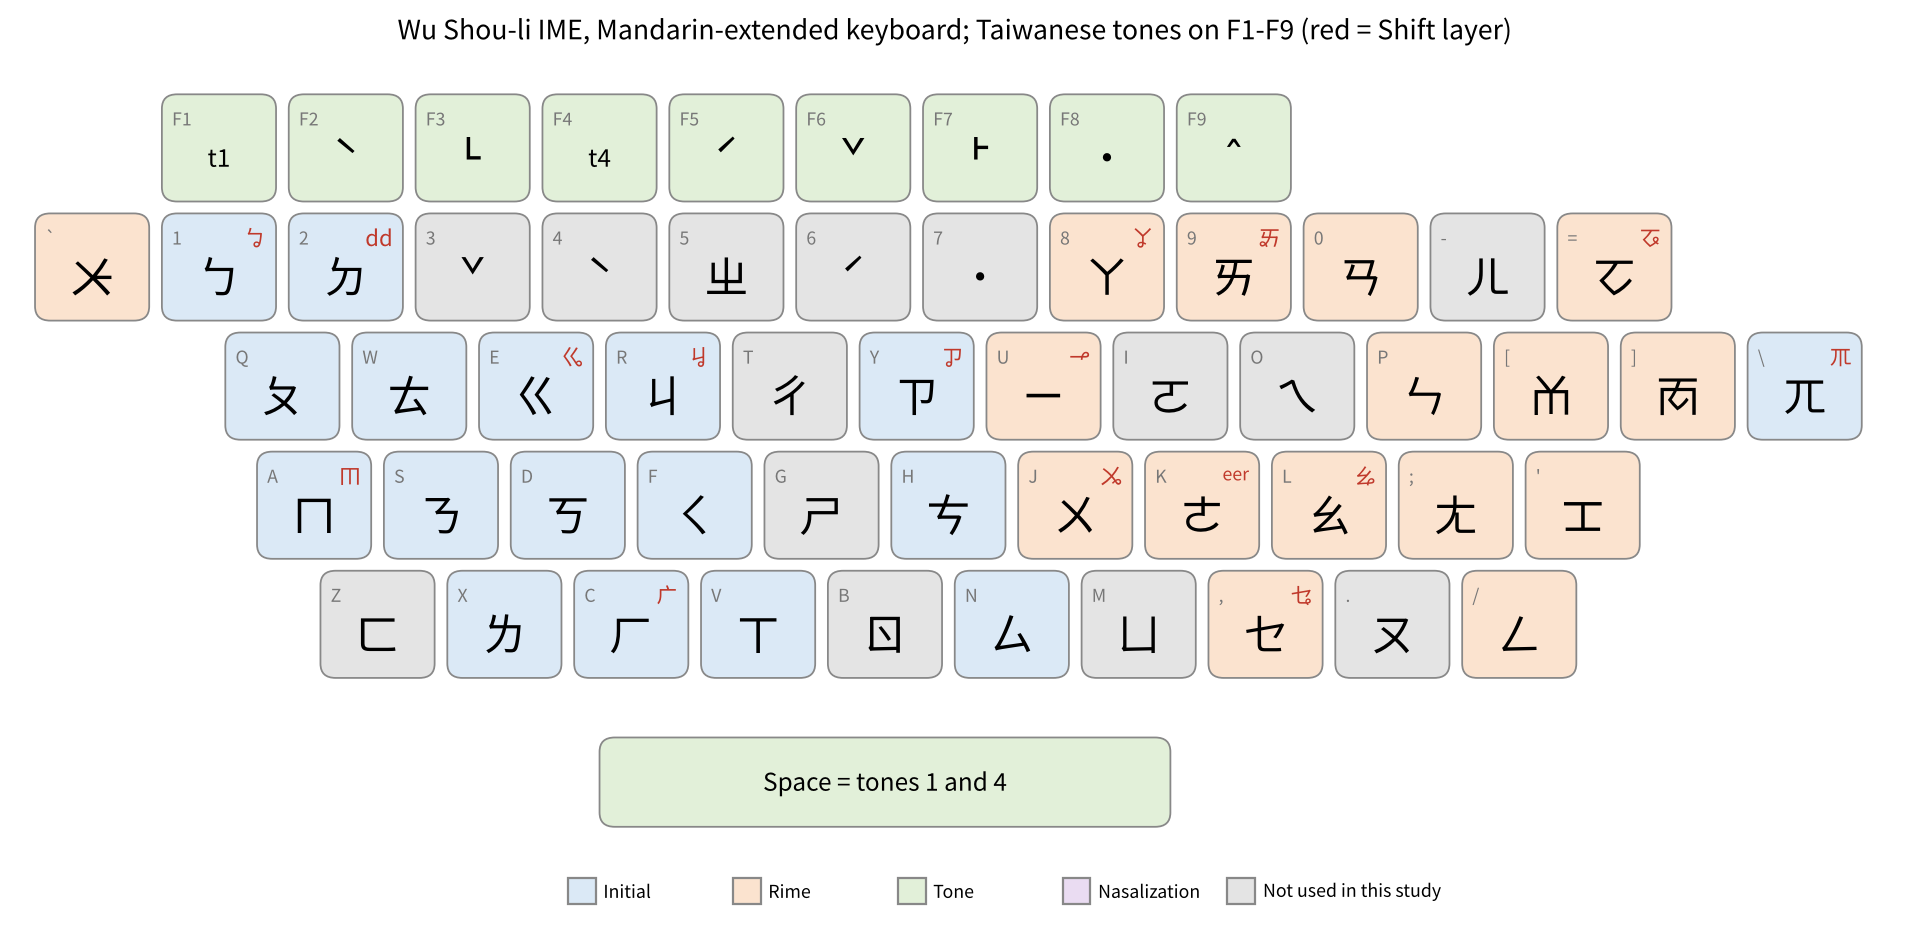
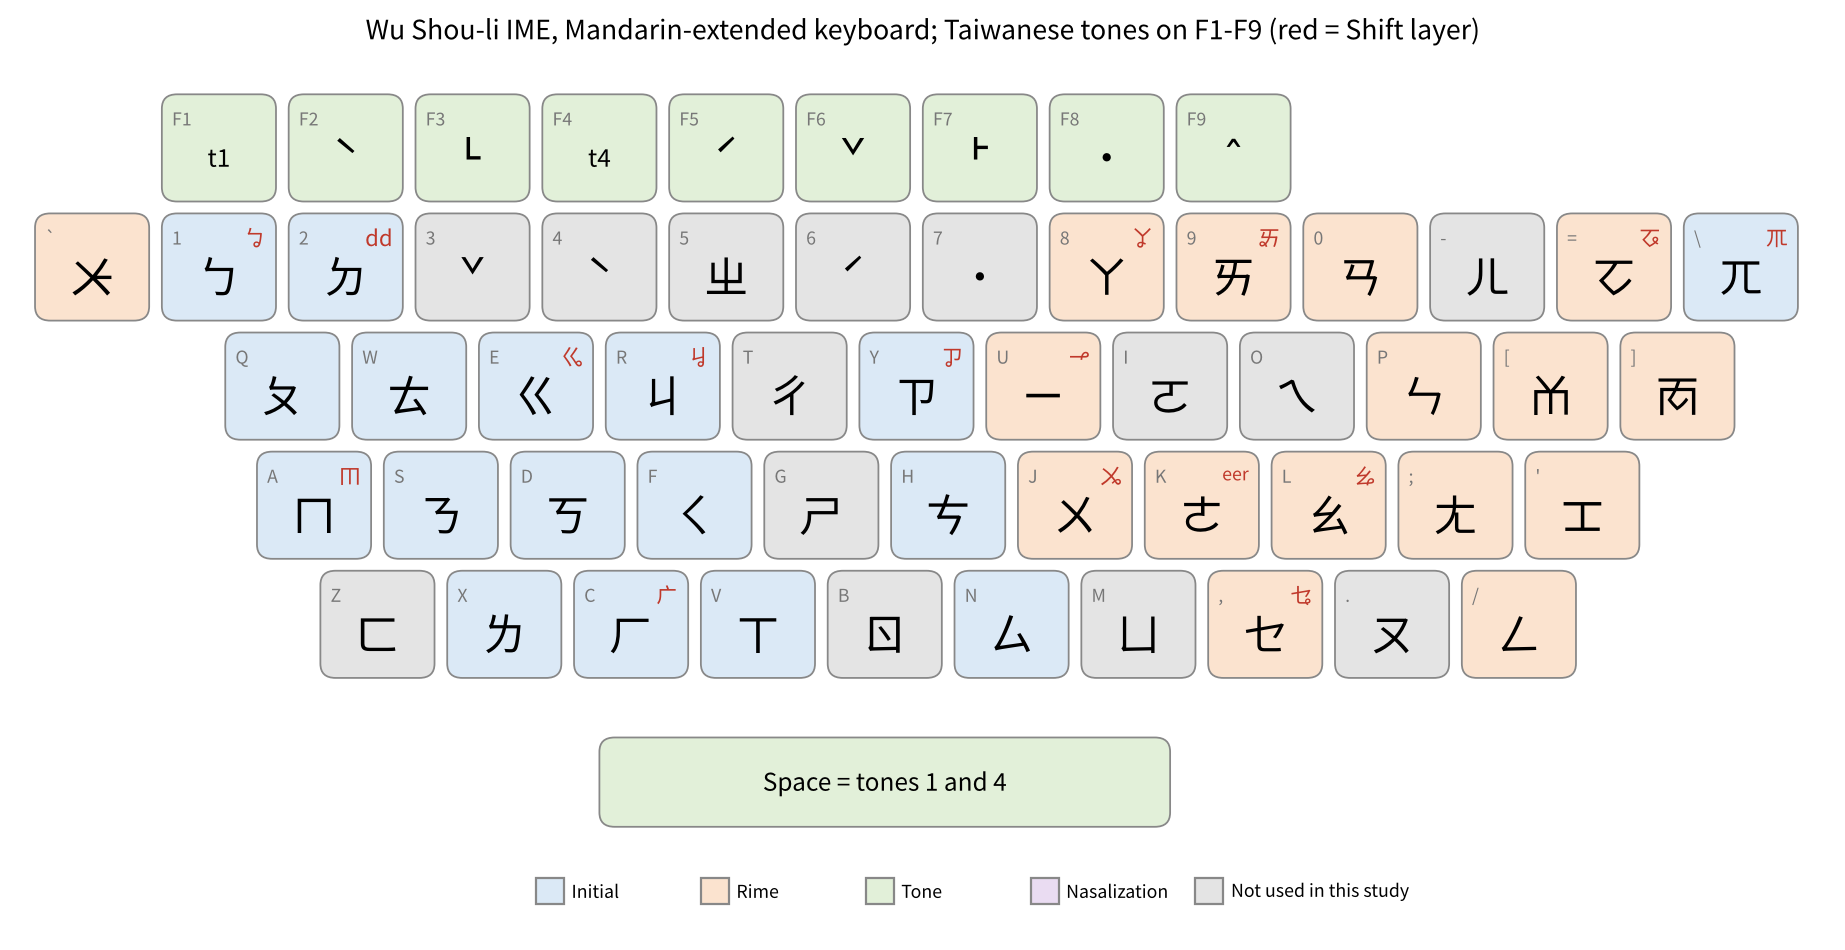
Place the backslash key on the number row for the Mandarin-extended keyboard
The Wu Shou-li on-screen keyboard shows the backslash key (ㄫ/ㆭ) at the right
end of the number row, after '='. Desktop index changes from 123.9 to 124.2.

Claude-Session: https://claude.ai/code/session_01NAaUPmCiocEBpHhsM43Wwq

diff --git a/figures_existing.py b/figures_existing.py
@@ -67,8 +67,8 @@ draw(AR,[0,0,0,0,1.2],'ex_AND.png','Taigi Keyboard (Android)',second='long press
 
 # Wu Shou-li IME, Mandarin-extended keyboard (Academia Sinica, 2012b): Taiwanese tones on F1-F9
 HUA=[[('F1','t1',''),('F2','ˋ',''),('F3','˪',''),('F4','t4',''),('F5','ˊ',''),('F6','ˇ',''),('F7','˫',''),('F8','˙',''),('F9','ˆ','')],
- [('`','ㆨ',''),('1','ㄅ','ㆠ'),('2','ㄉ','dd'),('3','ˇ',''),('4','ˋ',''),('5','ㄓ',''),('6','ˊ',''),('7','˙',''),('8','ㄚ','ㆩ'),('9','ㄞ','ㆮ'),('0','ㄢ',''),('-','ㄦ',''),('=','ㆦ','ㆧ')],
- [('Q','ㄆ',''),('W','ㄊ',''),('E','ㄍ','ㆣ'),('R','ㄐ','ㆢ'),('T','ㄔ',''),('Y','ㄗ','ㆡ'),('U','ㄧ','ㆪ'),('I','ㄛ',''),('O','ㄟ',''),('P','ㄣ',''),('[','ㆰ',''),(']','ㆱ',''),('\\','ㄫ','ㆭ')],
+ [('`','ㆨ',''),('1','ㄅ','ㆠ'),('2','ㄉ','dd'),('3','ˇ',''),('4','ˋ',''),('5','ㄓ',''),('6','ˊ',''),('7','˙',''),('8','ㄚ','ㆩ'),('9','ㄞ','ㆮ'),('0','ㄢ',''),('-','ㄦ',''),('=','ㆦ','ㆧ'),('\\','ㄫ','ㆭ')],
+ [('Q','ㄆ',''),('W','ㄊ',''),('E','ㄍ','ㆣ'),('R','ㄐ','ㆢ'),('T','ㄔ',''),('Y','ㄗ','ㆡ'),('U','ㄧ','ㆪ'),('I','ㄛ',''),('O','ㄟ',''),('P','ㄣ',''),('[','ㆰ',''),(']','ㆱ','')],
  [('A','ㄇ','ㆬ'),('S','ㄋ',''),('D','ㄎ',''),('F','ㄑ',''),('G','ㄕ',''),('H','ㄘ',''),('J','ㄨ','ㆫ'),('K','ㄜ','eer'),('L','ㄠ','ㆯ'),(';','ㄤ',''),("'",'ㆲ','')],
  [('Z','ㄈ',''),('X','ㄌ',''),('C','ㄏ','ㄬ'),('V','ㄒ',''),('B','ㄖ',''),('N','ㄙ',''),('M','ㄩ',''),(',','ㆤ','ㆥ'),('.','ㄡ',''),('/','ㄥ','')]]
 draw(HUA,[1.0,0,1.5,1.75,2.25],'ex_WSL_HUA.png','Wu Shou-li IME, Mandarin-extended keyboard; Taiwanese tones on F1-F9',

diff --git a/model.py b/model.py
@@ -35,7 +35,7 @@ for ri,r in enumerate(ROWS):
 EFF['SP']=0.6;FINGER['SP']=5;ROW['SP']=4
 # Keys outside the 41-key grid, used only by desktop-only layouts (Wu Shou-li Mandarin-extended keyboard).
 # Row -1 = function-key row. Efforts extrapolate the grid: farther and pinky-heavier keys cost more.
-EXTRA={'`':(4.5,0,0),'=':(5.0,9,0),'[':(3.0,9,1),']':(3.5,9,1),'\\':(4.0,9,1),"'":(2.0,9,2),
+EXTRA={'`':(4.5,0,0),'=':(5.0,9,0),'[':(3.0,9,1),']':(3.5,9,1),'\\':(5.5,9,0),"'":(2.0,9,2),
        'F1':(5.5,0,-1),'F2':(5.0,1,-1),'F3':(5.0,2,-1),'F4':(5.0,3,-1),'F5':(5.0,6,-1),
        'F6':(5.0,6,-1),'F7':(5.0,7,-1),'F8':(5.0,8,-1),'F9':(5.5,9,-1)}
 for k,(e,f,r) in EXTRA.items():

diff --git a/README.md b/README.md
@@ -27,14 +27,14 @@ Run the scripts in this order from the repository folder:
 
 The annealing uses fixed seeds, so steps 3 and 4 reproduce the layouts and scores in the paper exactly. Set the environment variable `ITERS=20000` for a quick test run of step 3.
 
-Expected output of step 4 (composite score: Taigi-TPS = 100, lower is better). The Mandarin-extended keyboard puts Taiwanese tones on F1–F9 and has no phone version, so only its desktop cost is reported (desktop index 123.9).
+Expected output of step 4 (composite score: Taigi-TPS = 100, lower is better). The Mandarin-extended keyboard puts Taiwanese tones on F1–F9 and has no phone version, so only its desktop cost is reported (desktop index 124.2).
 
 | Layout | Desktop cost | Phone (s/syllable) | Keys/syllable | Shift or long press | Composite |
 | --- | --- | --- | --- | --- | --- |
 | Taigi-TPS | 7.93 | 1.244 | 3.37 | 0.0% | 100.0 |
 | Wu Shou-li (Taiwanese-dedicated) | 7.69 | 1.274 | 3.50 | 19.1% | 99.6 |
 | Taigi Keyboard (Windows) | 8.22 | 1.295 | 3.52 | 20.5% | 103.8 |
-| Wu Shou-li (Mandarin-extended, desktop only) | 9.83 | — | 3.50 | 19.1% | — |
+| Wu Shou-li (Mandarin-extended, desktop only) | 9.85 | — | 3.50 | 19.1% | — |
 | Taigi Keyboard (Android) | — | 1.402 | 3.74 | 36.7% | — |
 | Layout A (Dachien-preserving) | 7.19 | 1.199 | 3.37 | 0.0% | 93.5 |
 | Layout B (hand-split) | 4.26 | 1.041 | 3.37 | 0.0% | 68.7 |
